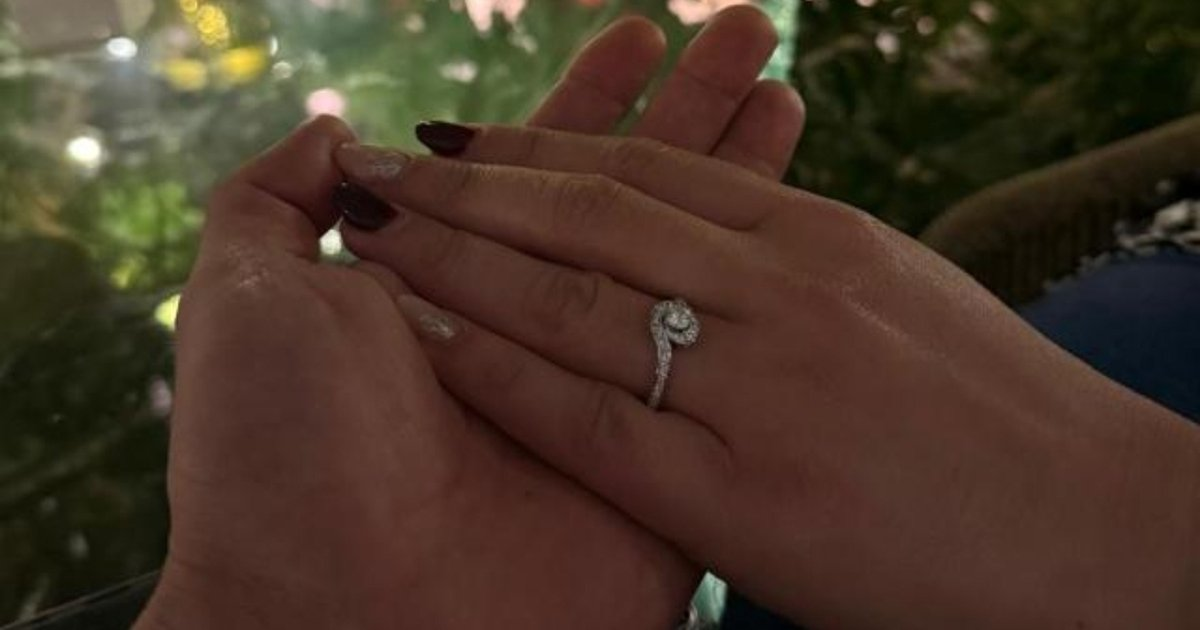
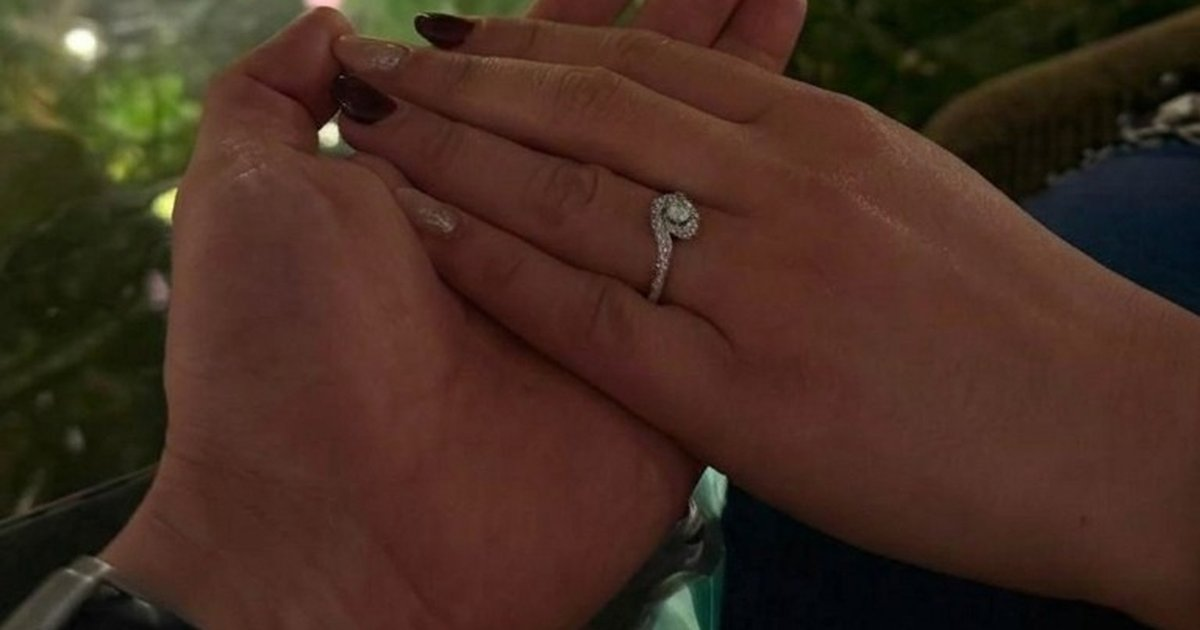
feat: nuevo hero (anillo de compromiso) centrado al 60% + og-image

diff --git a/index.html b/index.html
@@ -274,7 +274,7 @@ section{padding:64px 22px}
   z-index:0;will-change:transform;
 }
 .h-bg img{
-  width:100%;height:100%;object-fit:cover;object-position:center 35%;
+  width:100%;height:100%;object-fit:cover;object-position:center 60%;
   filter:brightness(1.04) saturate(1) contrast(1);
   display:block;
 }
